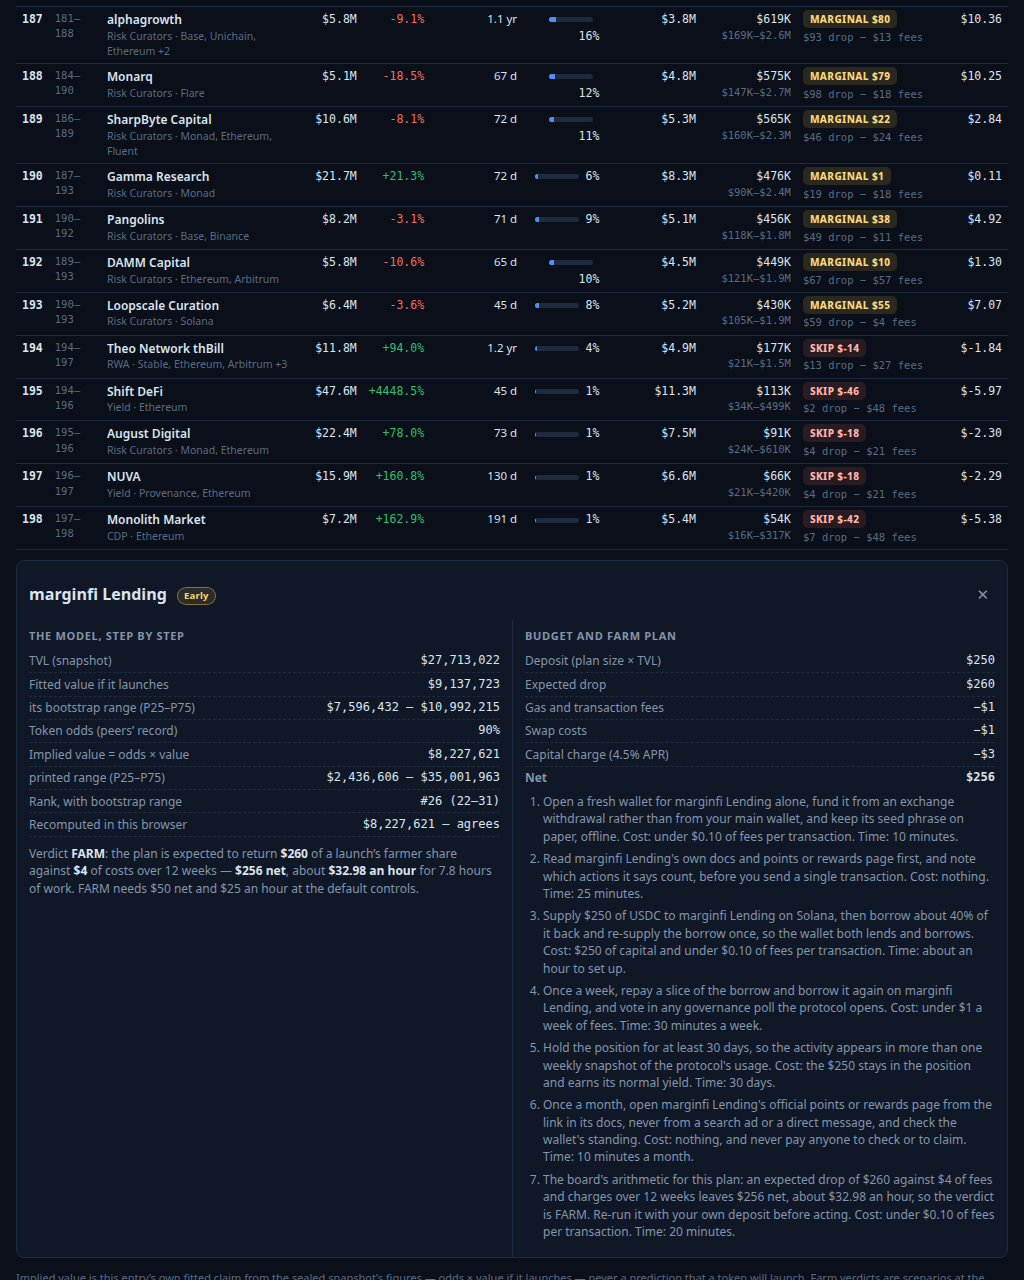
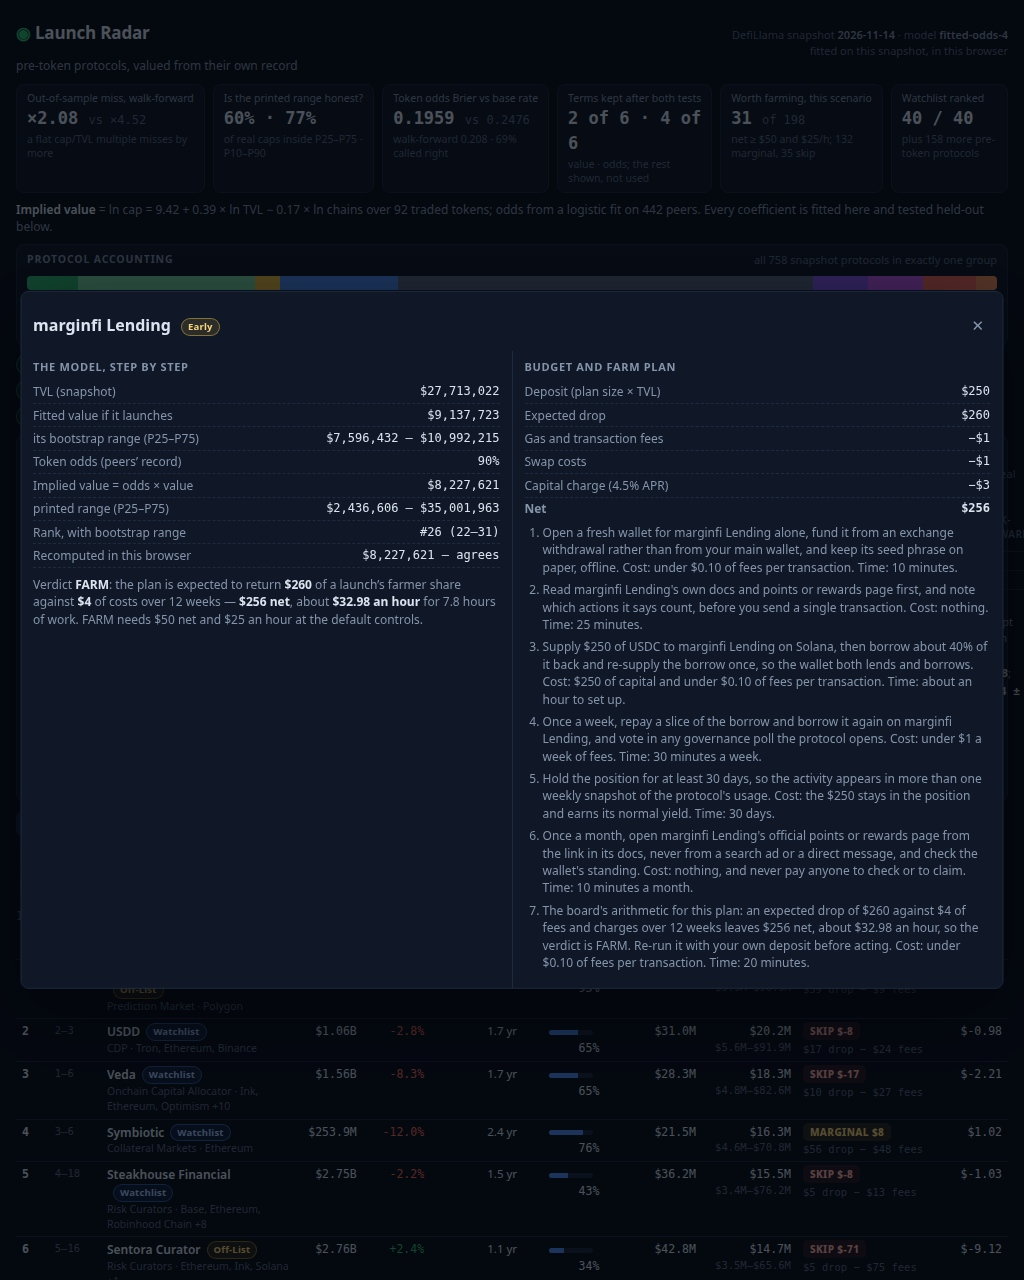
Detail view as a centred overlay + screenshots at the advised size
Judge-brief audit (RULES.txt '## The judge', criteria in order): criteria
1-3 are at parity or better (40/40 watchlist with live in-browser
recompute; fitted value x odds model with the derivation printed on the
cover and step by step in the detail; all 1,386 farm steps carry a cost
and a duration). The first gap was criterion 4: the detail panel rendered
in flow at the foot of a 198-row page, so its screenshot buried it under
the board's tail rows. The detail is now a centred overlay above a
dimmed board, and all three screenshots were retaken at 318-332 KiB
(the rules advise 300-350 KB; v3's were 231-249 KB) for legibility.
MODEL_VERSION fitted-odds-4; board rows byte-identical to v3, checksum
ad62bc5c unchanged, dashboard source 39,422 bytes (under the 65,536
dossier cap), dossier 1,367,152 bytes (under 1.5 MiB), two runs
byte-identical.

diff --git a/dashboard/app.css b/dashboard/app.css
@@ -130,8 +130,12 @@ td .sub2 { color: var(--faint); font-size: 10.5px; font-family: var(--font-num);
 .verdict.SKIP { background: rgba(246, 109, 93, 0.13); color: #ffb3ab; }
 td.verd .sub2 { display: block; margin-top: 2px; }
 
-/* detail */
-.detail { margin-top: 10px; }
+/* detail: a centred overlay, so a protocol's detail view stands on its own
+   above the board instead of trailing it at the foot of a 198-row page. */
+.detail { position: fixed; left: 50%; top: 50%; transform: translate(-50%, -50%);
+  width: min(1060px, 96vw); max-height: 94vh; overflow-y: auto; overscroll-behavior: contain;
+  z-index: 60; margin-top: 0;
+  box-shadow: 0 0 0 100vmax rgba(2, 5, 10, 0.66), 0 24px 80px rgba(0, 0, 0, 0.6); }
 .detail .d-head { display: flex; justify-content: space-between; align-items: baseline; padding: 9px 12px 0; }
 .detail .d-head h2 { font-size: 16px; }
 .detail .d-head .close { background: none; border: 0; color: var(--muted); font-size: 15px; }

diff --git a/lib/model.ts b/lib/model.ts
@@ -47,7 +47,7 @@ export interface Snapshot {
 }
 
 /** The model's version label: the dashboard names it and board.json carries it. */
-export const MODEL_VERSION = 'fitted-odds-3';
+export const MODEL_VERSION = 'fitted-odds-4';
 
 /** Farm-plan economics at the dashboard's default controls. The page ships these and recomputes
  *  every verdict live when a reader moves a control; the board's printed verdicts use them too. */
